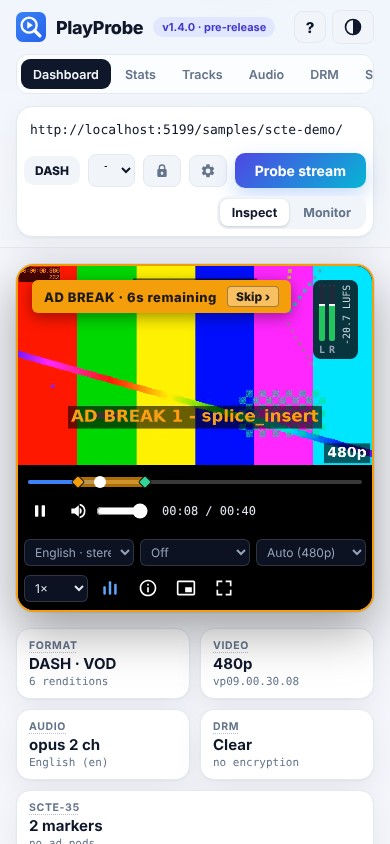
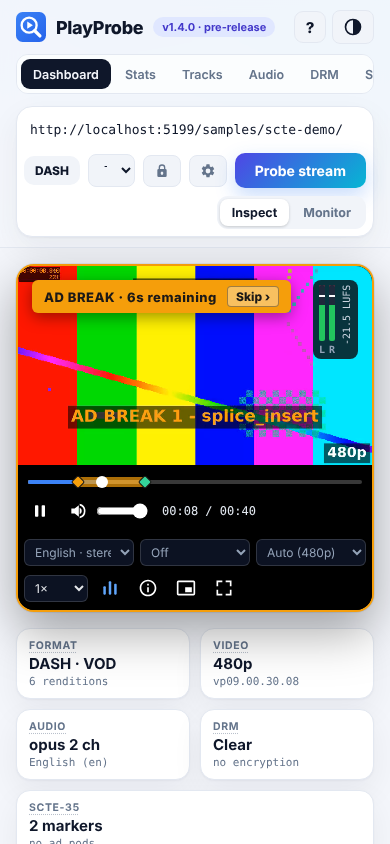
Loudness card explained; tooltips everywhere they were missing
- Loudness card: tooltips on every value, a two-line explainer (LUFS, LU,
  dBFS), meters labelled peak dBFS, and an 'integrated: close' style badge
  whose tooltip says what it judges, by how much and what it means; the
  alarm thresholds it quotes follow the alarm settings.
- Glossary entries for the Audio, DRM, Device, Health, Network, Tracks and
  builder labels that had none (found by sweeping every tab); the dotted
  underline appears only on labels that have an explanation.
- A pending tooltip is no longer lost when its card redraws mid-delay.
- e2e: alarms demo at 2x so the 4 s black section gets enough picture
  samples for its 2 s hold.

Claude-Session: https://claude.ai/code/session_01Mfx4jpQKbq4EYqM5U7Hj88

diff --git a/src/ui/dashboard/dashboard.ts b/src/ui/dashboard/dashboard.ts
@@ -165,26 +165,70 @@ export class Dashboard {
       return card;
     }
     const value = Number.isFinite(r.integrated) ? r.integrated : r.shortTerm;
+    const judged = Number.isFinite(r.integrated) ? 'integrated' : 'short-term';
     const off = Number.isFinite(value) ? Math.abs(value - std.target) : Infinity;
     const status = off <= std.tolerance ? ['on target', 'ok'] : off <= 3 ? ['close', 'out'] : ['off target', 'warn'];
+    const t = (n: number) => String(n).replace('-', '−');
+    // Says what it judges: the integrated value, which delivery specs check.
+    const diff = Number.isFinite(value) ? value - std.target : NaN;
+    const by = Number.isFinite(diff) ? `${Math.abs(diff).toFixed(1)} LU ${diff > 0 ? 'louder' : 'quieter'} than` : 'compared with';
+    const meaning =
+      status[0] === 'on target'
+        ? `on target: within ±${std.tolerance} LU, as ${std.name} asks.`
+        : status[0] === 'close'
+          ? `close: outside the ±${std.tolerance} LU ${std.name} allows, but within 3 LU. Worth a look for delivery; not an alarm.`
+          : `off target: more than 3 LU away. Needs correcting for delivery.`;
+    const verdict = h(
+      'span',
+      {
+        'data-tip': `${judged === 'integrated' ? 'Integrated loudness (everything measured so far)' : 'Short-term loudness (integrated needs a few seconds of audio first)'} is ${by} the ${t(std.target)} ${std.unit} target, so ${meaning} The alarm is separate: it raises when short-term loudness stays more than ${this.d.alarms.settings.loudnessTolerance} LU off for ${this.d.alarms.settings.hold.loudness} s.`,
+      },
+      badge(`${judged}: ${status[0]}`, status[1]),
+    );
+    const details = h(
+      'div',
+      { class: 'muted small loud-details' },
+      h('span', { 'data-tip': 'Integrated: gated loudness of everything measured since loading (or since the audio track changed). The value delivery specs check.' }, `Integrated ${fmtLu(r.integrated)} ${std.unit}`),
+      ' · ',
+      h('span', { 'data-tip': `True peak: the highest level between samples, as after conversion to analogue. ${std.name} allows up to ${t(std.maxTruePeak)} dBTP.` }, `true peak ${fmtLu(r.truePeakMax)} dBTP`),
+      ' · ',
+      h('span', { 'data-tip': 'Loudness range (LRA): how much the loudness varies over time, in LU. Speech-led TV is usually under 10 LU; a beep test tone reads high.' }, `LRA ${fmtLu(r.lra)} LU`),
+    );
+    const explainer = h(
+      'p',
+      { class: 'loud-explain muted small' },
+      `Loudness is how loud the audio sounds, in ${std.unit}: ${std.name} aims for ${t(std.target)}, and values closer to 0 are louder (each 1 LU is about 1 dB). `,
+      `Short-term covers the last 3 s, integrated everything so far; channel bars show each channel’s peak in dBFS, where 0 is the digital maximum.`,
+    );
     // Gauge: −40 … 0 LUFS.
     const pos = Number.isFinite(value) ? Math.max(0, Math.min(1, (value + 40) / 40)) : 0;
     if (compact) {
       card.append(
-        h('div', { class: 'loud-row' }, h('div', { class: 'loud-big' }, fmtLu(r.shortTerm)), h('div', { class: 'muted small' }, `${std.unit} short-term`), h('span', { class: 'spacer' }), badge(status[0], status[1])),
         h(
           'div',
-          { class: 'loud-bar' },
+          { class: 'loud-row' },
+          h('div', { class: 'loud-big', 'data-tip': 'Short-term loudness: the last 3 seconds. The reading to watch while monitoring.' }, fmtLu(r.shortTerm)),
+          h('div', { class: 'muted small' }, `${std.unit} short-term`),
+          h('span', { class: 'spacer' }),
+          verdict,
+        ),
+        h(
+          'div',
+          {
+            class: 'loud-bar',
+            'data-tip': `Short-term loudness (marker) on a −40 to 0 ${std.unit} scale. The green zone is the target, ${t(std.target)} ±${std.tolerance} LU.`,
+          },
           h('div', { class: 'zone', style: `left:${((std.target - std.tolerance + 40) / 40) * 100}%;width:${((2 * std.tolerance) / 40) * 100}%` }),
           h('div', { class: 'mark', style: `left:${(Number.isFinite(r.shortTerm) ? Math.max(0, Math.min(1, (r.shortTerm + 40) / 40)) : 0) * 100}%` }),
         ),
         h('div', { class: 'loud-ticks mono' }, h('span', null, '−40'), h('span', null, '−30'), h('span', null, '−20'), h('span', null, '−10'), h('span', null, '0')),
-        h('div', { class: 'muted small' }, `Integrated ${fmtLu(r.integrated)} · true peak ${fmtLu(r.truePeakMax)} dBTP · LRA ${fmtLu(r.lra)} LU`),
+        details,
         this.channelStrip(r.channels),
+        explainer,
       );
       return card;
     }
-    const gauge = h('div', { class: 'gauge' });
+    const gauge = h('div', { class: 'gauge', 'data-tip': `${judged === 'integrated' ? 'Integrated' : 'Short-term'} loudness on a −40 to 0 ${std.unit} scale. ${std.name} target: ${t(std.target)} ${std.unit}.` });
     gauge.innerHTML = `<svg viewBox="0 0 100 100"><circle cx="50" cy="50" r="40" class="track" stroke-dasharray="188 251" transform="rotate(135 50 50)"/><circle cx="50" cy="50" r="40" class="value" stroke-dasharray="${pos * 188} 251" transform="rotate(135 50 50)"/></svg>`;
     card.append(
       h(
@@ -194,12 +238,23 @@ export class Dashboard {
         h(
           'div',
           { class: 'loud-text' },
-          h('div', { class: 'loud-big' }, fmtLu(value)),
-          h('div', { class: 'muted small' }, `${std.unit} ${Number.isFinite(r.integrated) ? 'integrated' : 'short-term'}`),
-          h('div', { class: 'small' }, `TP ${fmtLu(r.truePeakMax)} dBTP `, badge(status[0], status[1])),
+          h(
+            'div',
+            { class: 'loud-big', 'data-tip': judged === 'integrated' ? 'Integrated loudness: everything measured since loading. The value delivery specs check.' : 'Short-term loudness: the last 3 seconds (integrated needs a few seconds of audio first).' },
+            fmtLu(value),
+          ),
+          h('div', { class: 'muted small' }, `${std.unit} ${judged}`),
+          h(
+            'div',
+            { class: 'small' },
+            h('span', { 'data-tip': `True peak: the highest level between samples. ${std.name} allows up to ${t(std.maxTruePeak)} dBTP.` }, `TP ${fmtLu(r.truePeakMax)} dBTP`),
+            ' ',
+            verdict,
+          ),
         ),
       ),
       this.channelStrip(r.channels),
+      explainer,
     );
     return card;
   }
@@ -221,11 +276,18 @@ export class Dashboard {
     return h(
       'div',
       { class: 'ch-strip' },
-      h('div', { class: 'ch-head muted small' }, channels.length === 6 ? '5.1' : `${channels.length} ch`, flagged.length ? badge(flagged.map((c) => `${c.label} ${c.flag}`).join(' · '), 'warn') : ''),
+      h(
+        'div',
+        { class: 'ch-head muted small' },
+        h('span', { 'data-tip': 'Peak level of each channel over the last 1.5 s, in dBFS: 0 is the digital maximum, −60 or less is silence. A channel silent while others play, or 10 dB quieter than the loudest, is flagged.' }, `${channels.length === 6 ? '5.1' : `${channels.length} ch`} · peak dBFS`),
+        flagged.length ? badge(flagged.map((c) => `${c.label} ${c.flag}`).join(' · '), 'warn') : ''),
       states.map((c) =>
         h(
           'div',
-          { class: `ch-row${c.flag ? ` ${c.flag}` : ''}`, title: `${c.label}: ${fmtLu(c.peak)} dBFS peak` },
+          {
+            class: `ch-row${c.flag ? ` ${c.flag}` : ''}`,
+            'data-tip': `${c.label}: peak ${fmtLu(c.peak)} dBFS in the last 1.5 s${c.flag === 'silent' ? ' — silent while other channels play' : c.flag === 'low' ? ' — more than 10 dB below the loudest channel' : ''}.`,
+          },
           h('span', { class: 'ch-l' }, c.label),
           h('span', { class: 'ch-m' }, h('i', { style: `width:${pct(c.peak)}%` })),
           h('span', { class: 'ch-v mono' }, Number.isFinite(c.peak) && c.peak > -90 ? Math.round(c.peak).toString().replace('-', '−') : '−∞'),

diff --git a/src/ui/glossary.ts b/src/ui/glossary.ts
@@ -206,6 +206,49 @@ export const GLOSSARY: Record<string, string> = {
   hdcp: 'Output protection version the browser reports for this key system.',
   'security levels': 'Robustness levels the key system offers in this browser.',
   supported: 'Whether this browser offers the key system.',
+  // ------------------------------------------------------------- more labels
+  detail: 'What was measured when the alarm raised.',
+  track: 'The audio track playing, as the manifest describes it: language, codec, channels, sample rate.',
+  'measured from': 'Where the meters get their audio: the downloaded segments decoded with WebCodecs (every encoded channel), or the browser’s output through Web Audio.',
+  'output device': 'Channels the audio output (speakers, headphones, HDMI) accepts, as the browser reports it.',
+  'dolby decoding here': 'Whether this browser can play Dolby Digital (AC-3) and Dolby Digital Plus (E-AC-3).',
+  levels: 'Peak level of each channel (bar) and the highest recent peak (hold mark), in dBFS: 0 is the digital maximum.',
+  'key status': 'Each content key the DRM module holds and whether it can be used for playback.',
+  'license & certificate requests': 'Every licence and FairPlay certificate request, with status, timing and the raw request and reply.',
+  'protection declared by the stream': 'DRM systems, key IDs and licence URLs the manifest and init segments announce, before any licence is requested.',
+  'key ids': 'Identifiers of the content keys this system protects (KIDs).',
+  system: 'The DRM system: Widevine, PlayReady, FairPlay or ClearKey.',
+  'drm key systems': 'DRM systems this browser offers, with security levels and HDCP.',
+  environment: 'This browser, screen and player library.',
+  browser: 'Browser name and version.',
+  'colour gamut': 'Widest colour range the screen reports: sRGB, P3 or Rec. 2020.',
+  mime: 'Container and codec string tested.',
+  'mse / managedmediasource': 'Media Source Extensions, which web players need to play DASH and HLS. ManagedMediaSource is the version on iPhone.',
+  screen: 'Screen size, pixel ratio and colour depth.',
+  'shaka player': 'Version of Shaka Player, the playback library PlayProbe uses.',
+  'user agent': 'The browser’s full identification string.',
+  mpd: 'The DASH manifest: type (static = on demand, dynamic = live), refreshes and SegmentTimeline checks.',
+  'media playlists': 'HLS media playlists the player loaded, with target duration, window and refreshes.',
+  'renditions played': 'Each rendition that downloaded segments: codecs declared and found, bitrate, keyframes.',
+  size: 'Bytes received.',
+  throughput: 'Size divided by download time.',
+  time: 'When it happened, and how long it took.',
+  'dash presentationtime': 'Time of the event on the DASH timeline, for the EventStream output.',
+  'daterange / event id': 'ID used for the HLS DATERANGE tag and the DASH Event.',
+  in: 'Break ends (back to the programme).',
+  out: 'Break starts.',
+  other: 'Other signals: content identification, programme and chapter boundaries, splice_null.',
+  start: 'When it starts.',
+  total: 'All markers.',
+  stream: 'The stream as loaded: format, live or on demand, URL, periods and segment duration.',
+  'all variants': 'Every video + audio combination the player can choose from (adaptive bitrate picks among them).',
+  'audio tracks': 'Audio tracks in the stream: language, roles, codec, channels and sample rate.',
+  'subtitles / captions': 'Text tracks: subtitles and closed captions, with language and format.',
+  'video renditions': 'Each video quality: resolution, frame rate, codec, bitrate and dynamic range.',
+  flags: 'Active (playing now), primary (the manifest’s default) and similar markers.',
+  id: 'Identifier of the track in the player.',
+  kind: 'Subtitles, captions, or another text kind.',
+  label: 'Name the manifest gives the track.',
 };
 
 const norm = (s: string) => s.trim().toLowerCase().replace(/\s+/g, ' ');

diff --git a/src/ui/tooltip.ts b/src/ui/tooltip.ts
@@ -19,7 +19,10 @@ const TARGETS: [selector: string, context?: string][] = [
   ['.drm-field > span'],
   ['td > label'],
 ];
-const SELECTOR = TARGETS.map(([s]) => s).join(',');
+export const SELECTOR_LIST = TARGETS.map(([s]) => s).join(',');
+const SELECTOR = SELECTOR_LIST;
+/** Labels shown with a dotted underline when they have an explanation. */
+const UNDERLINED = 'table.kv th, .kv-grid small, .loud-tile small, .drm-facts .muted, .fact';
 
 /** The label of an element: its own text, without counts, badges or hints in child elements. */
 export function labelOf(el: Element): string {
@@ -112,7 +115,10 @@ export function installTooltips(root: HTMLElement = document.body): void {
     if (hit[0] === target || adopt(hit)) return;
     hide();
     timer = window.setTimeout(() => {
-      if (hit[0].isConnected) show(hit[0], hit[1]);
+      if (hit[0].isConnected) return show(hit[0], hit[1]);
+      // Redrawn while waiting: use what is under the pointer now.
+      const again = pointer ? find(document.elementFromPoint(pointer.x, pointer.y)) : null;
+      if (again) show(again[0], again[1]);
     }, delay);
   };
 
@@ -138,7 +144,21 @@ export function installTooltips(root: HTMLElement = document.body): void {
   window.addEventListener('scroll', hide, true);
   window.addEventListener('resize', hide);
   // Tabs re-render often; drop the tooltip when its element goes away.
+  // Labels that have an explanation get a dotted underline (data-has-tip), so
+  // the hint never promises a tooltip that isn't there. Checked once per frame at most.
+  let marking = 0;
+  const mark = () => {
+    marking = 0;
+    for (const el of root.querySelectorAll(UNDERLINED)) {
+      if (el.hasAttribute('data-has-tip')) continue;
+      if (tipOf(el)) el.setAttribute('data-has-tip', '');
+    }
+  };
+  const scheduleMark = () => (marking ||= requestAnimationFrame(mark));
+  scheduleMark();
+
   new MutationObserver(() => {
+    scheduleMark();
     if (!target || target.isConnected) return;
     const under = pointer ? document.elementFromPoint(pointer.x, pointer.y) : null;
     if (!adopt(find(under))) hide();

diff --git a/src/ui/stats/health.ts b/src/ui/stats/health.ts
@@ -31,6 +31,8 @@ export class StreamHealthCache {
 
 interface SubView {
   id: string;
+  /** Tooltip for the sub-view button. */
+  tip?: string;
   label: string;
   el: HTMLElement;
   render(): void;
@@ -59,14 +61,14 @@ export class HealthTab {
   constructor(private readonly ctrl: PlayerController) {
     this.cache = new StreamHealthCache(ctrl);
     this.el.append(this.nav);
-    this.addView({ id: 'stream', label: 'Stream', el: this.streamEl, render: () => this.renderStream() });
+    this.addView({ id: 'stream', label: 'Stream', tip: 'Checks on the playlists or MPD and on every downloaded segment.', el: this.streamEl, render: () => this.renderStream() });
     const alignment = new AlignmentView(ctrl);
     this.addView({ id: 'alignment', label: 'Rendition alignment', el: alignment.el, render: () => alignment.render() });
   }
 
   addView(view: SubView) {
     this.views.push(view);
-    const b = h('button', { type: 'button', role: 'tab', onclick: () => this.show(view.id) }, view.label);
+    const b = h('button', { type: 'button', role: 'tab', 'data-tip': view.tip, onclick: () => this.show(view.id) }, view.label);
     this.buttons.set(view.id, b);
     this.nav.append(b);
     this.el.append(view.el);

diff --git a/src/styles.css b/src/styles.css
@@ -3038,11 +3038,11 @@ ul.issues li {
 }
 
 /* A dotted underline hints that a label explains itself. */
-table.kv th,
-.kv-grid small,
-.loud-tile small,
-.drm-facts .muted,
-.fact small {
+table.kv th[data-has-tip],
+.kv-grid small[data-has-tip],
+.loud-tile small[data-has-tip],
+.drm-facts .muted[data-has-tip],
+.fact[data-has-tip] small {
   text-decoration: underline dotted color-mix(in srgb, var(--muted) 45%, transparent);
   text-underline-offset: 3px;
 }
@@ -3262,4 +3262,20 @@ dialog.welcome::backdrop {
   .wl-caps {
     grid-template-columns: 1fr;
   }
+}
+
+/* Loudness card: explained values and the short explainer. */
+.loud-details span[data-tip],
+.ch-head span[data-tip] {
+  text-decoration: underline dotted color-mix(in srgb, var(--muted) 45%, transparent);
+  text-underline-offset: 3px;
+}
+.loud-card [data-tip] {
+  cursor: help;
+}
+.loud-explain {
+  margin: 12px 0 0;
+  padding-top: 10px;
+  border-top: 1px solid var(--row-line);
+  line-height: 1.5;
 }

diff --git a/test/glossary.test.ts b/test/glossary.test.ts
@@ -12,6 +12,8 @@ describe('glossary', () => {
       'Estimated bandwidth', 'Buffer', 'Time to first frame', 'Live latency', 'DVR window',
       'Codec in media', 'Keyframe start', 'Measured avg / peak', 'Last change',
       'CRC-32', 'Splice point (player time)', 'Fill', 'Origin', 'Threshold', 'For at least',
+      'Track (manifest)', 'Decoded by browser', 'Channel order', 'Measured from', 'Output device', 'Dolby decoding here',
+      'Key status (2)', 'Video renditions (6)', 'MSE / ManagedMediaSource', 'Detail',
       'Security level', 'Key ID', 'Rendition', 'Dropped frames', 'Scheme', 'Keys', 'Licence', 'Request',
     ];
     const missing = labels.filter((l) => !tipFor(l));

diff --git a/CHANGELOG.md b/CHANGELOG.md
@@ -33,6 +33,7 @@ Planned as 1.1.0 (PlayReady), 1.2.0 (SCTE-35 tools), 1.3.0 (stream health, rendi
 - **Inspect | Monitor** switch; the choice is remembered per kind of stream (live/VOD), and Copy link includes the view.
 - **Welcome guide**: opens on the first visit (and from the **?** button or the `?` key) with what PlayProbe checks, how to use it and handy keys, plus a **Try the demo stream** button.
 - **Link previews**: Open Graph and Twitter tags and a 1200×630 preview image (`npm run og-image`), so a shared playprobe.xyz link shows the logo, name and tagline.
+- **Loudness card**: tooltips on every value, a short explainer of LUFS / LU / dBFS, channel meters labelled *peak dBFS*, and a badge that says what it judges (*integrated: close*) with a tooltip on what that means.
 - **Tooltips** that explain tabs, cards, health-score lines, table headers, Stats, DRM and loudness values, SCTE-35 fields, alarms and settings, on hover, keyboard focus or tap.
 
 ### Changed
@@ -46,6 +47,8 @@ Planned as 1.1.0 (PlayReady), 1.2.0 (SCTE-35 tools), 1.3.0 (stream health, rendi
 - The dashboard's channel meters show the highest level of the last 1.5 s, so short sounds (beeps, speech) no longer leave them looking empty.
 - On live streams that count time from 1970 (e.g. livesim2), the timeline axis and the alarm log show clock time instead of huge hour counts like `498239:26:00`.
 - **Out of phase** is judged only when there is real audio (above −40 dBFS): the correlation of near-silence between beeps no longer counts, and quiet gaps no longer stop the alarm from raising on out-of-phase audio.
+- Tooltips for the Audio, DRM, Device, Health, Network, Tracks and SCTE-35 builder labels that had none; the dotted underline now appears only on labels that have an explanation.
+- A tooltip waiting to show is no longer lost when its card redraws.
 - The active item in the Monitor navigation rail no longer crowds its label.
 - Tooltips no longer blink while the dashboard refreshes, and tab names show their explanation instead of repeating the name.
 - License request headers set by the DRM module (PlayReady's `SOAPAction`) now pass through the CORS proxy.

diff --git a/README.md b/README.md
@@ -268,7 +268,7 @@ The header holds the logo with the version, the navigation, **Copy link**, **Exp
 **Tooltips.** Labels across the app explain themselves: tab names, card titles, dashboard facts and health-score lines, table headers, Stats and DRM values, loudness readings, SCTE-35 fields and builder inputs, alarm names and DRM settings.
 
 - Hover (about a third of a second), focus with the keyboard, or tap a label on a touch screen. `Esc` or scrolling hides it.
-- Labels with an explanation have a dotted underline in the summary tables and cards.
+- Labels with an explanation have a dotted underline in the summary tables and cards (only those that have one).
 - The texts live in one place, `src/ui/glossary.ts`, keyed by the label as shown. A key can carry a context (`scte:health`, `fact:audio`) when the same word means different things in different places.
 
 ![Welcome guide](docs/screenshots/welcome.png)
